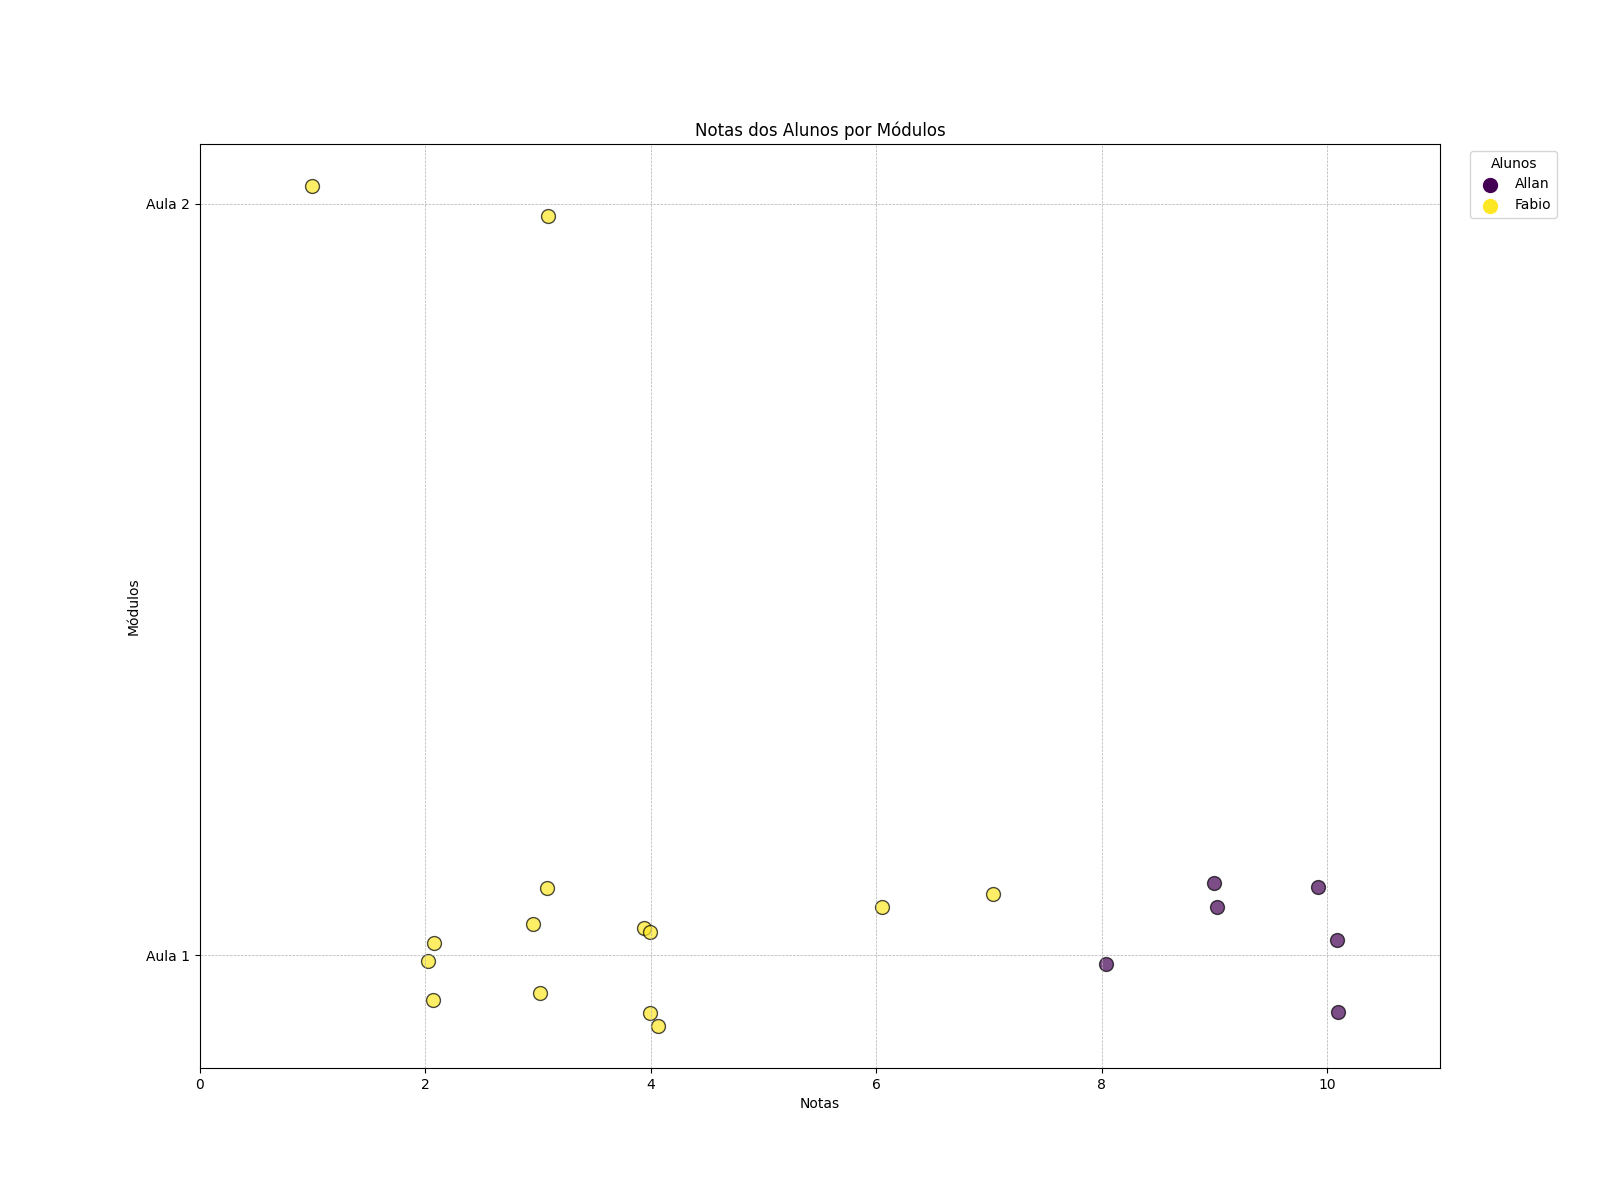
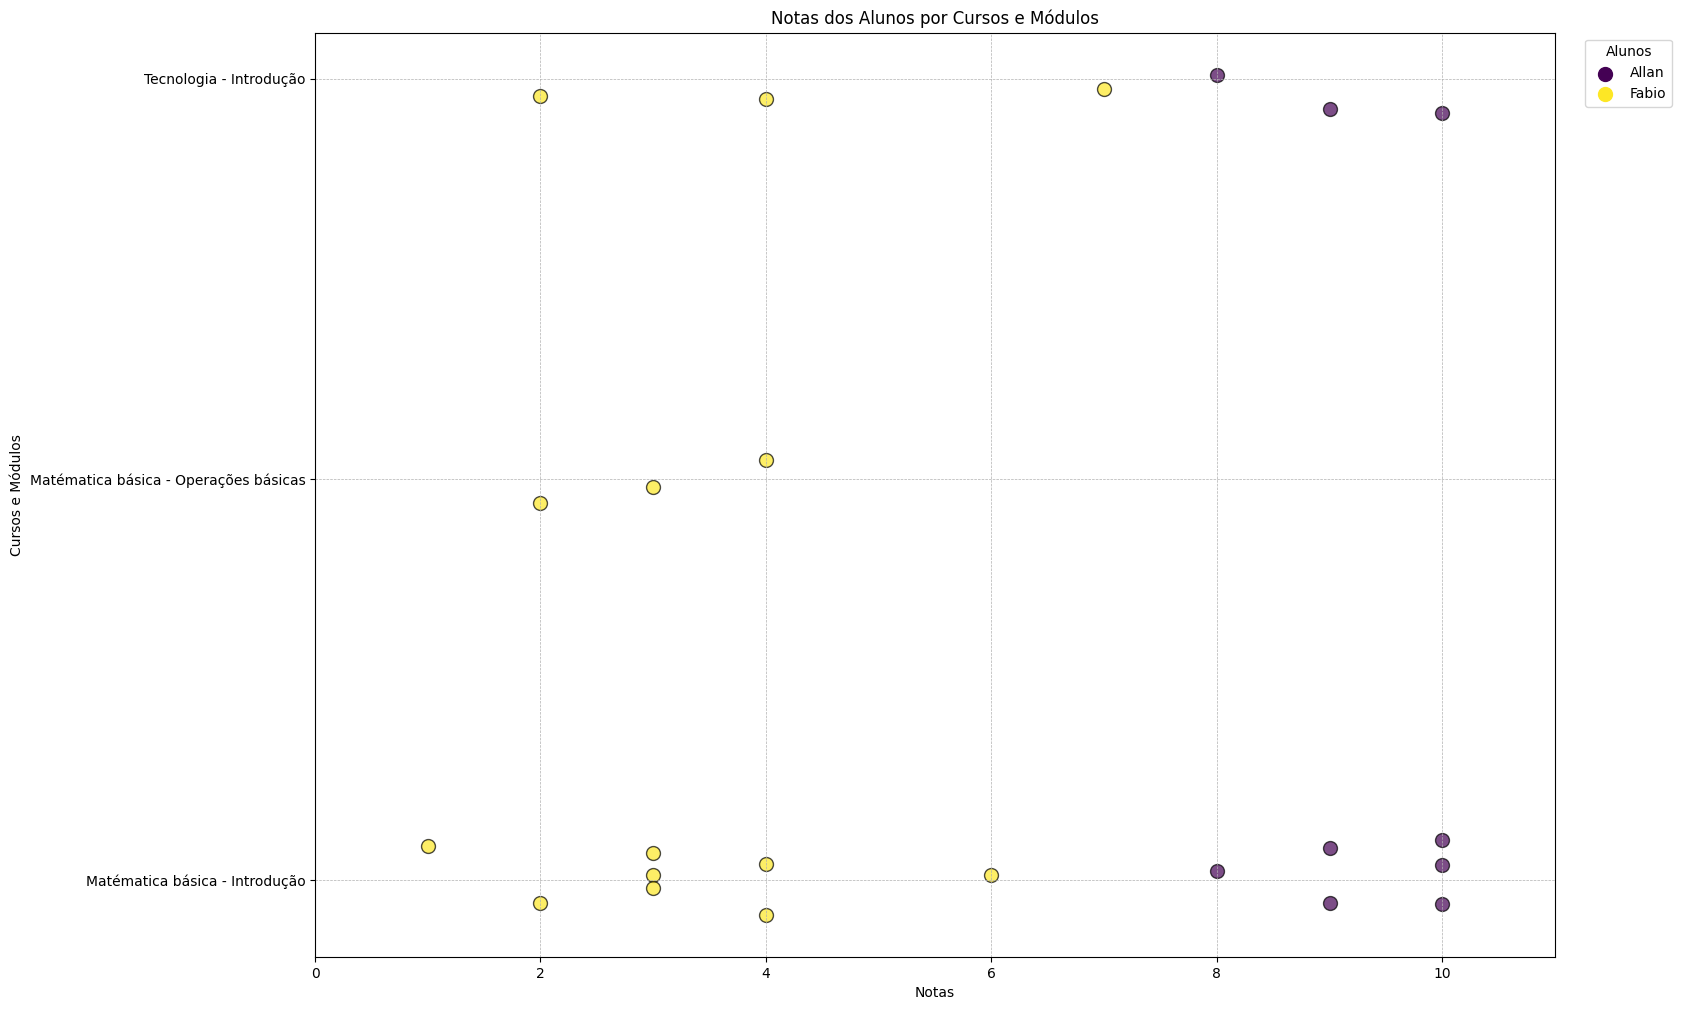
...

diff --git a/utils.py b/utils.py
@@ -7,7 +7,7 @@ matplotlib.use('Agg')
 from collections import defaultdict
 
 def kmeans_clustering(alunos_data):
-    notas = np.array([nota for _, _, nota, _, _, _, _ in alunos_data if isinstance(nota, (int, float))]).reshape(-1, 1)
+    notas = np.array([nota for _, _, nota, _, _, _ in alunos_data if isinstance(nota, (int, float))]).reshape(-1, 1)
 
     if notas.size == 0:
         return None, None, None
@@ -20,54 +20,80 @@ def kmeans_clustering(alunos_data):
 
     return notas, labels, centroids
 
+import matplotlib.pyplot as plt
+import numpy as np
+from collections import defaultdict
+
 def generate_cluster_plot(X, labels, centroids, alunos_data):
     plt.figure(figsize=(16, 12))
-    modulos = sorted(set(aluno[4] for aluno in alunos_data if len(aluno) > 4))
-    if not modulos:
-        return None
 
-    modulo_indices = {modulo: i for i, modulo in enumerate(modulos)}
+    # Agrupar módulos por cursos
+    cursos_modulos = defaultdict(list)
+    for aluno in alunos_data:
+        if len(aluno) < 6:
+            continue
+        curso = aluno[5]
+        modulo = aluno[4]
+        if modulo not in cursos_modulos[curso]:
+            cursos_modulos[curso].append(modulo)
 
+    # Organizar a estrutura de cursos e módulos para o eixo Y
+    cursos_modulos_indices = {}
+    index = 0
+    for curso, modulos in sorted(cursos_modulos.items()):
+        for modulo in sorted(modulos):
+            cursos_modulos_indices[(curso, modulo)] = index
+            index += 1
+
+    # Define cores únicas para cada aluno
     unique_alunos = sorted(set(aluno[1] for aluno in alunos_data))
     colors = plt.cm.viridis(np.linspace(0, 1, len(unique_alunos)))  
     aluno_colors = {nome: colors[i] for i, nome in enumerate(unique_alunos)}
-    jitter_strength_x = 0.1  
-    jitter_strength_y = 0.1 
+
+    # Jitter no eixo Y para melhorar visualização
+    jitter_strength_y = 0.1  
     notas_por_aluno = defaultdict(list)
+
     for aluno in alunos_data:
-        if len(aluno) < 5:  
+        if len(aluno) < 6:
             continue
 
         nome = aluno[1]  
         nota = aluno[2] 
         modulo = aluno[4]  
-        notas_por_aluno[nome].append((nota, modulo)) 
+        curso = aluno[5]  
+        notas_por_aluno[nome].append((nota, modulo, curso)) 
 
+    # Criação do gráfico de dispersão com as notas de cada aluno por módulo/curso
     for aluno, notas in notas_por_aluno.items():
-        for nota, modulo in notas:
-            y_pos = modulo_indices[modulo] 
-            x_pos = float(nota) + np.random.uniform(-jitter_strength_x, jitter_strength_x)  
-            y_pos += np.random.uniform(-jitter_strength_y, jitter_strength_y)
+        for nota, modulo, curso in notas:
+            y_pos = cursos_modulos_indices[(curso, modulo)]
+            x_pos = float(nota)
+            y_pos += np.random.uniform(-jitter_strength_y, jitter_strength_y)  # Jitter no eixo Y apenas
             plt.scatter(x_pos, y_pos, color=aluno_colors[aluno], marker='o', edgecolor='k', s=100, alpha=0.7)
 
+    # Legenda com nome dos alunos
     for aluno, color in aluno_colors.items():
         plt.scatter([], [], color=color, label=aluno, marker='o', s=100)
     plt.legend(title="Alunos", loc="upper right", bbox_to_anchor=(1.10, 1))
 
-    plt.title('Notas dos Alunos por Módulos')
+    # Configurações dos eixos e título
+    plt.title('Notas dos Alunos por Cursos e Módulos')
     plt.xlabel('Notas')
-    plt.ylabel('Módulos')
-    plt.yticks(range(len(modulos)), modulos) 
+    plt.ylabel('Cursos e Módulos')
 
-    plt.xlim(0, 11) 
+    # Eixo Y com pares Curso-Módulo
+    y_labels = [f"{curso} - {modulo}" for curso, modulo in sorted(cursos_modulos_indices.keys())]
+    plt.yticks(range(len(y_labels)), y_labels)
+
+    plt.xlim(0, 11)
     plt.grid(True, linestyle='--', linewidth=0.5)
 
     plot_path = 'static/images/cluster_plot.png'
-    plt.savefig(plot_path)
+    plt.savefig(plot_path, bbox_inches='tight')
     plt.close()
 
     return 'cluster_plot.png'
-
 
 def generate_student_performance_plot(alunos_data):
     if not alunos_data or not isinstance(alunos_data, list):
@@ -191,36 +217,41 @@ def generate_performance_by_module_plot(alunos_data):
     if not alunos_data or not isinstance(alunos_data, list):
         raise ValueError("alunos_data deve ser uma lista.")
 
-    notas_por_modulo = defaultdict(list)
+    notas_por_curso_modulo = defaultdict(list)
 
     for aluno in alunos_data:
-        nome = aluno[1]
-        nota = aluno[2] 
-        modulo = aluno[5]  
-
+        nome = aluno[1] 
+        nota = aluno[2]   
+        curso = aluno[4]  
+        modulo = aluno[5] 
+        print(f"dados gerais do aluno: {nome}, {nota}, {curso}, {modulo}")
         try:
             nota = float(nota)
         except ValueError:
             raise ValueError(f"A nota '{nota}' para o aluno '{nome}' não é um número válido.")
-        notas_por_modulo[modulo].append(nota)
-    medias_por_modulo = {modulo: np.mean(notas) for modulo, notas in notas_por_modulo.items()}
-    modulos = list(medias_por_modulo.keys())
-    medias = list(medias_por_modulo.values())
-
-    fig, ax = plt.subplots(figsize=(10, 6))
-    ax.barh(modulos, medias, color='skyblue')
+        notas_por_curso_modulo[(curso, modulo)].append(nota)
+        print(f"notas_por_curso_modulo: {notas_por_curso_modulo}")
+    medias_por_curso_modulo = {
+        (curso, modulo): np.mean(notas) for (curso,modulo), notas in notas_por_curso_modulo.items()
+    }
+    print(f"medias_por_curso_modulo: {medias_por_curso_modulo}")
+    cursos_modulos = [f"{curso} - {modulo}" for curso, modulo in medias_por_curso_modulo.keys()]
+    medias = list(medias_por_curso_modulo.values())
+    fig, ax = plt.subplots(figsize=(16, 10))
+    ax.barh(cursos_modulos, medias, color='skyblue')
     ax.set_xlabel('Média das Notas')
-    ax.set_ylabel('Módulos')
-    ax.set_title('Desempenho dos Alunos por Módulo')
+    ax.set_ylabel('Cursos e Módulos')
+    ax.set_title('Desempenho dos Alunos por Curso e Módulo')
 
     for index, value in enumerate(medias):
         ax.text(value, index, f"{value:.2f}")
-
+    plt.subplots_adjust(left=0.2)
     plot_path = 'static/images/performance_by_module_plot.png'
     plt.savefig(plot_path)
     plt.close()
 
     return 'performance_by_module_plot.png'
+
 
 def classificar_alunos_por_grupos(notas):
     media_nota = np.mean(notas) if notas else 0

diff --git a/routes/teacher_routes.py b/routes/teacher_routes.py
@@ -197,11 +197,12 @@ def ver_feedbacks():
                         for resposta in respostas:
                             aluno_id = resposta['user_id']
                             nota = resposta['nota']
-                            if isinstance(nota, (int, float)):
-                                notas_por_aula[aula_id].append(nota)
-                                notas_por_curso[curso_nome][modulo_nome].append(nota)
+                            notas_por_aula[titulo_aula].append(nota)
+                            print([(id,nota) for id,nota in notas_por_aula.items()])
+                            notas_por_curso[curso_nome][modulo_nome].append(nota)
 
-            medias_por_aula = {titulo_aula: (sum(notas) / len(notas)) if notas else 0 for aula_id, notas in notas_por_aula.items()}
+            medias_por_aula = {titulo_aula: (sum(notas) / len(notas)) for titulo_aula,notas in notas_por_aula.items()}
+            print(f"medias por aula: {medias_por_aula}")
             medias_por_curso = {
                 curso: {modulo: (sum(notas) / len(notas)) if notas else 0 for modulo, notas in modulos.items()}
                 for curso, modulos in notas_por_curso.items()

diff --git a/models.py b/models.py
@@ -354,7 +354,6 @@ def get_student_scores_by_module():
         r.user_id, 
         u.nome, 
         r.nota, 
-        pa.concluida, 
         a.titulo AS aula_nome, 
         m.titulo AS modulo_nome, 
         c.nome AS curso_nome
@@ -364,19 +363,19 @@ def get_student_scores_by_module():
         JOIN modulos m ON a.modulo_id = m.id
         JOIN cursos c ON m.curso_id = c.id
         JOIN usuarios u ON r.user_id = u.id
-        JOIN progresso_aulas pa ON pa.user_id = u.id AND pa.aula_id = a.id;
+    ORDER BY c.nome, m.titulo, a.titulo;
     """
     
     cursor.execute(query)
     scores = cursor.fetchall()
     
     alunos_data = []
-    for aluno_id, nome, nota, concluida, aula_nome, modulo_nome, curso_nome in scores:
-        progresso = 1 if concluida else 0
-        alunos_data.append((aluno_id, nome, nota, progresso, aula_nome, modulo_nome, curso_nome))
+    for aluno_id, nome, nota, aula_nome, modulo_nome, curso_nome in scores:
+        alunos_data.append((aluno_id, nome, nota, aula_nome, modulo_nome, curso_nome))
 
     conn.close()
     return alunos_data
+
 
 if __name__ == '__main__':
     init_db()
